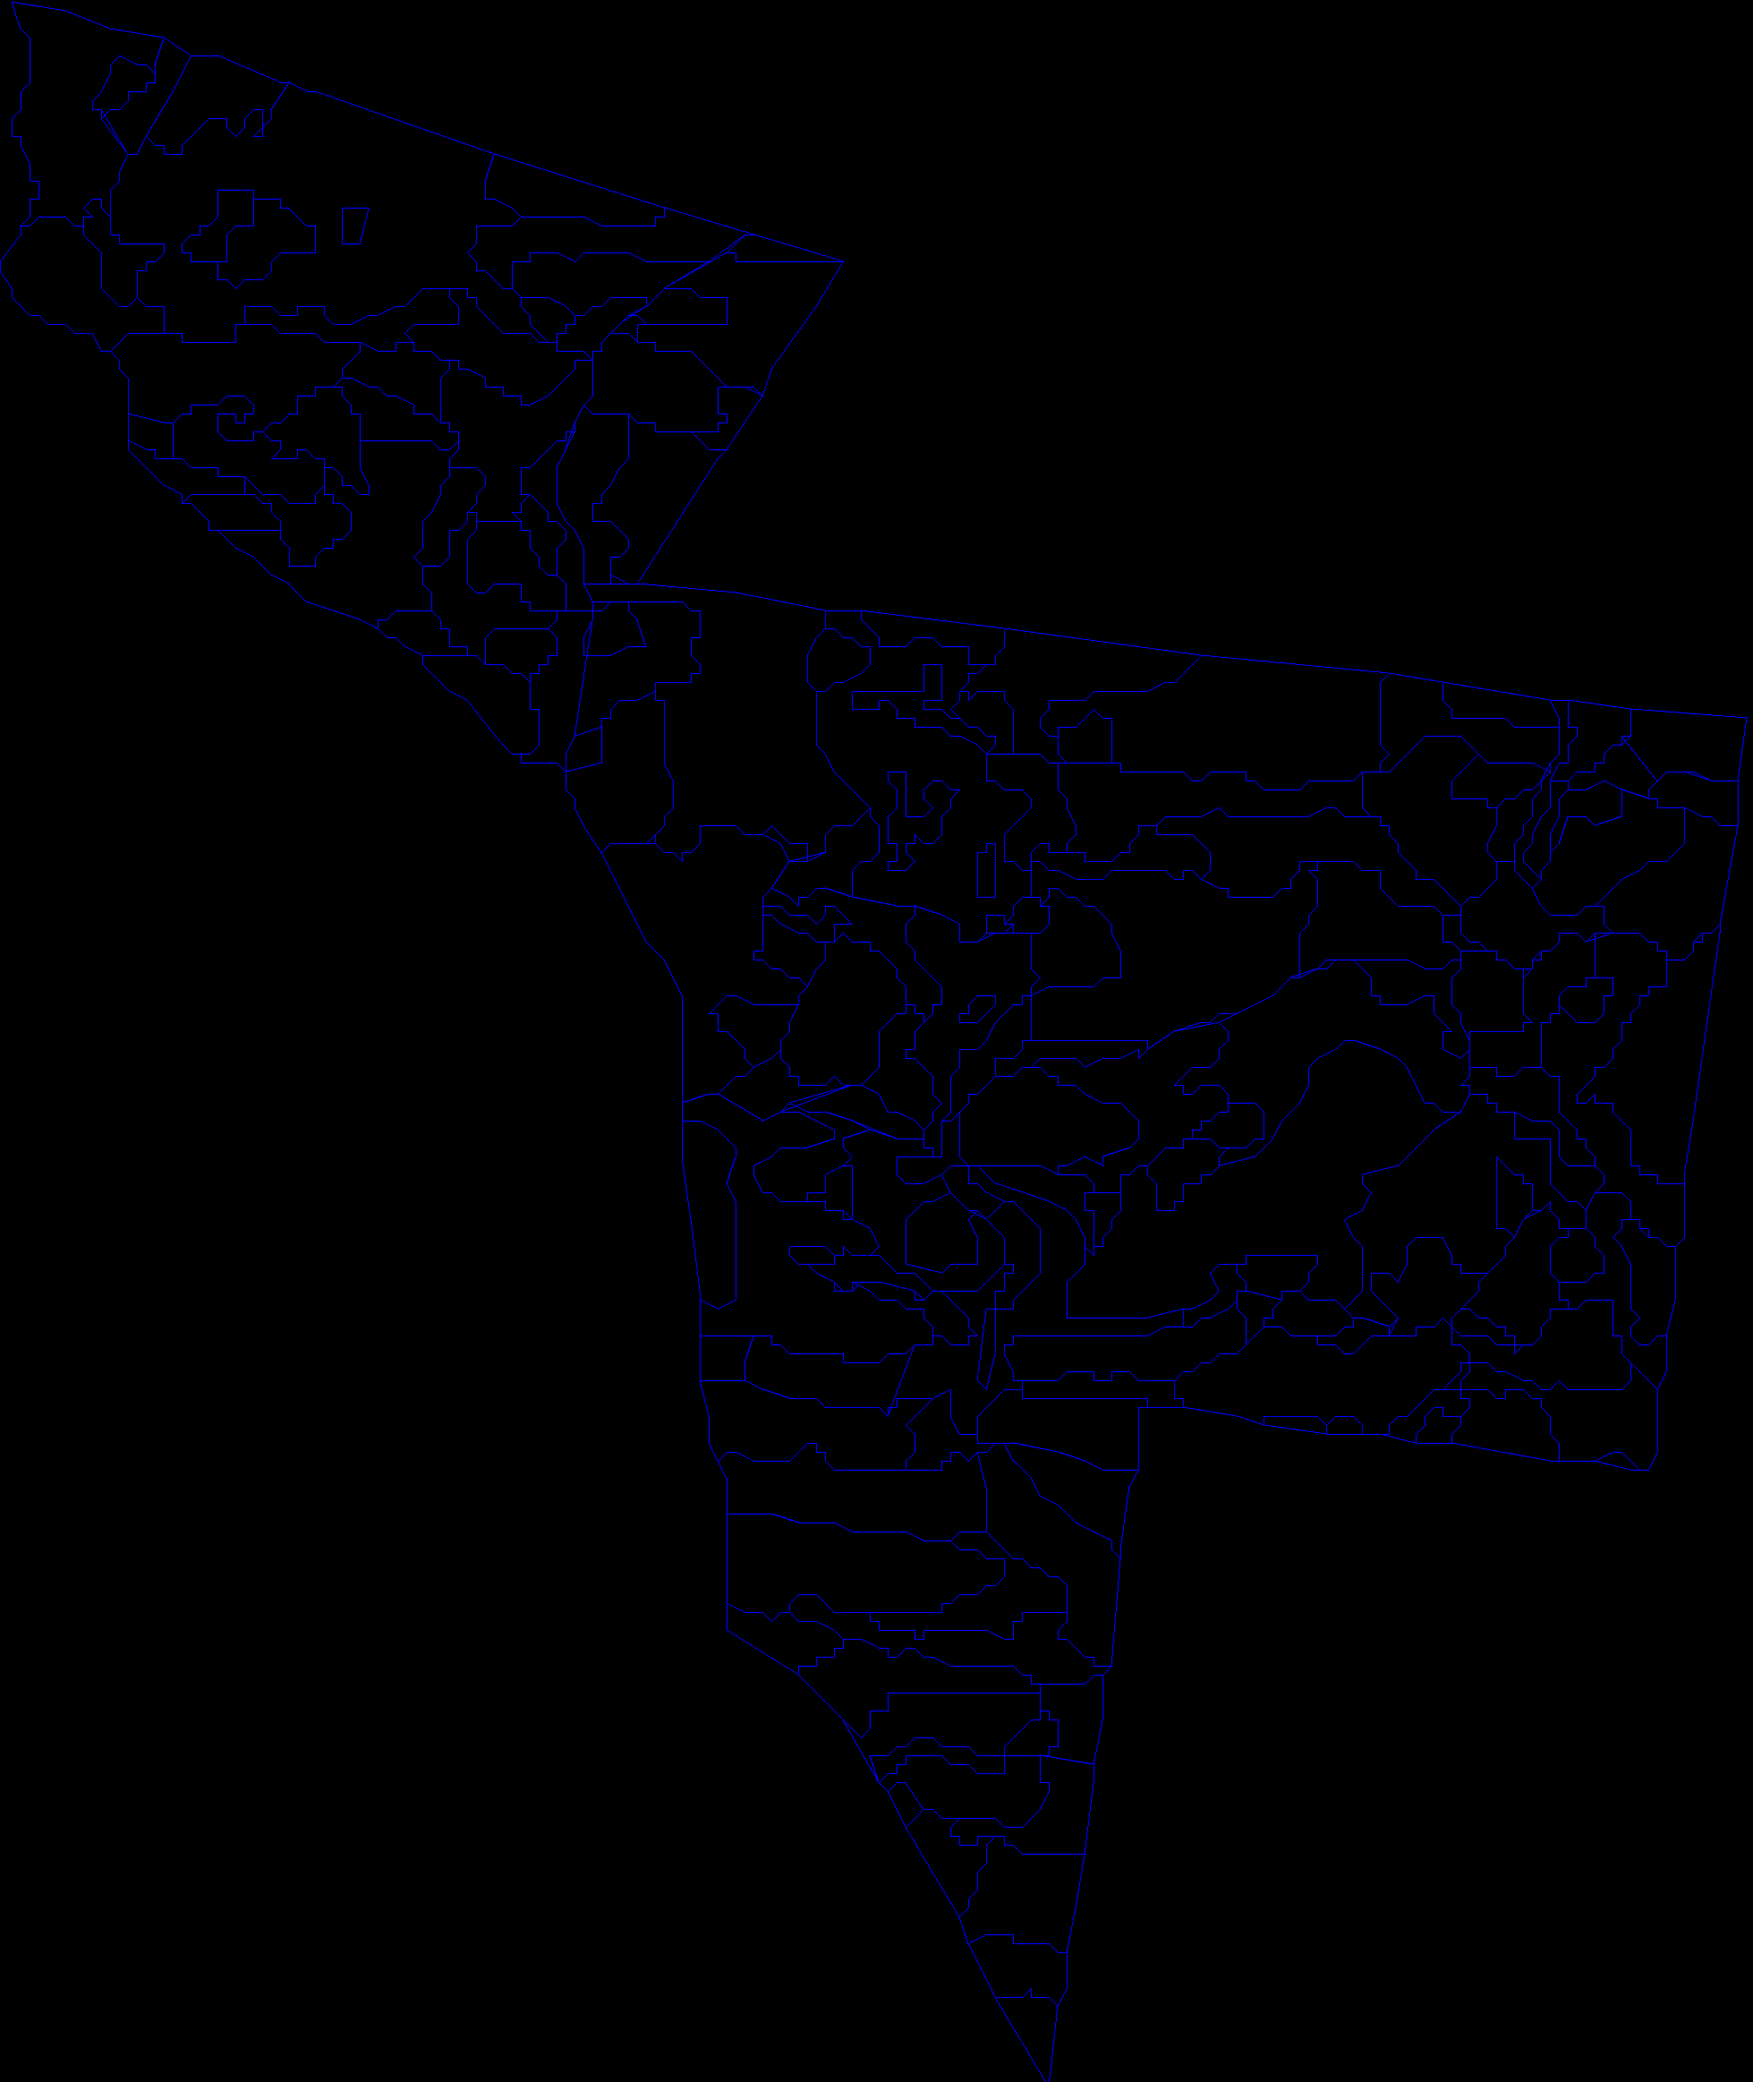
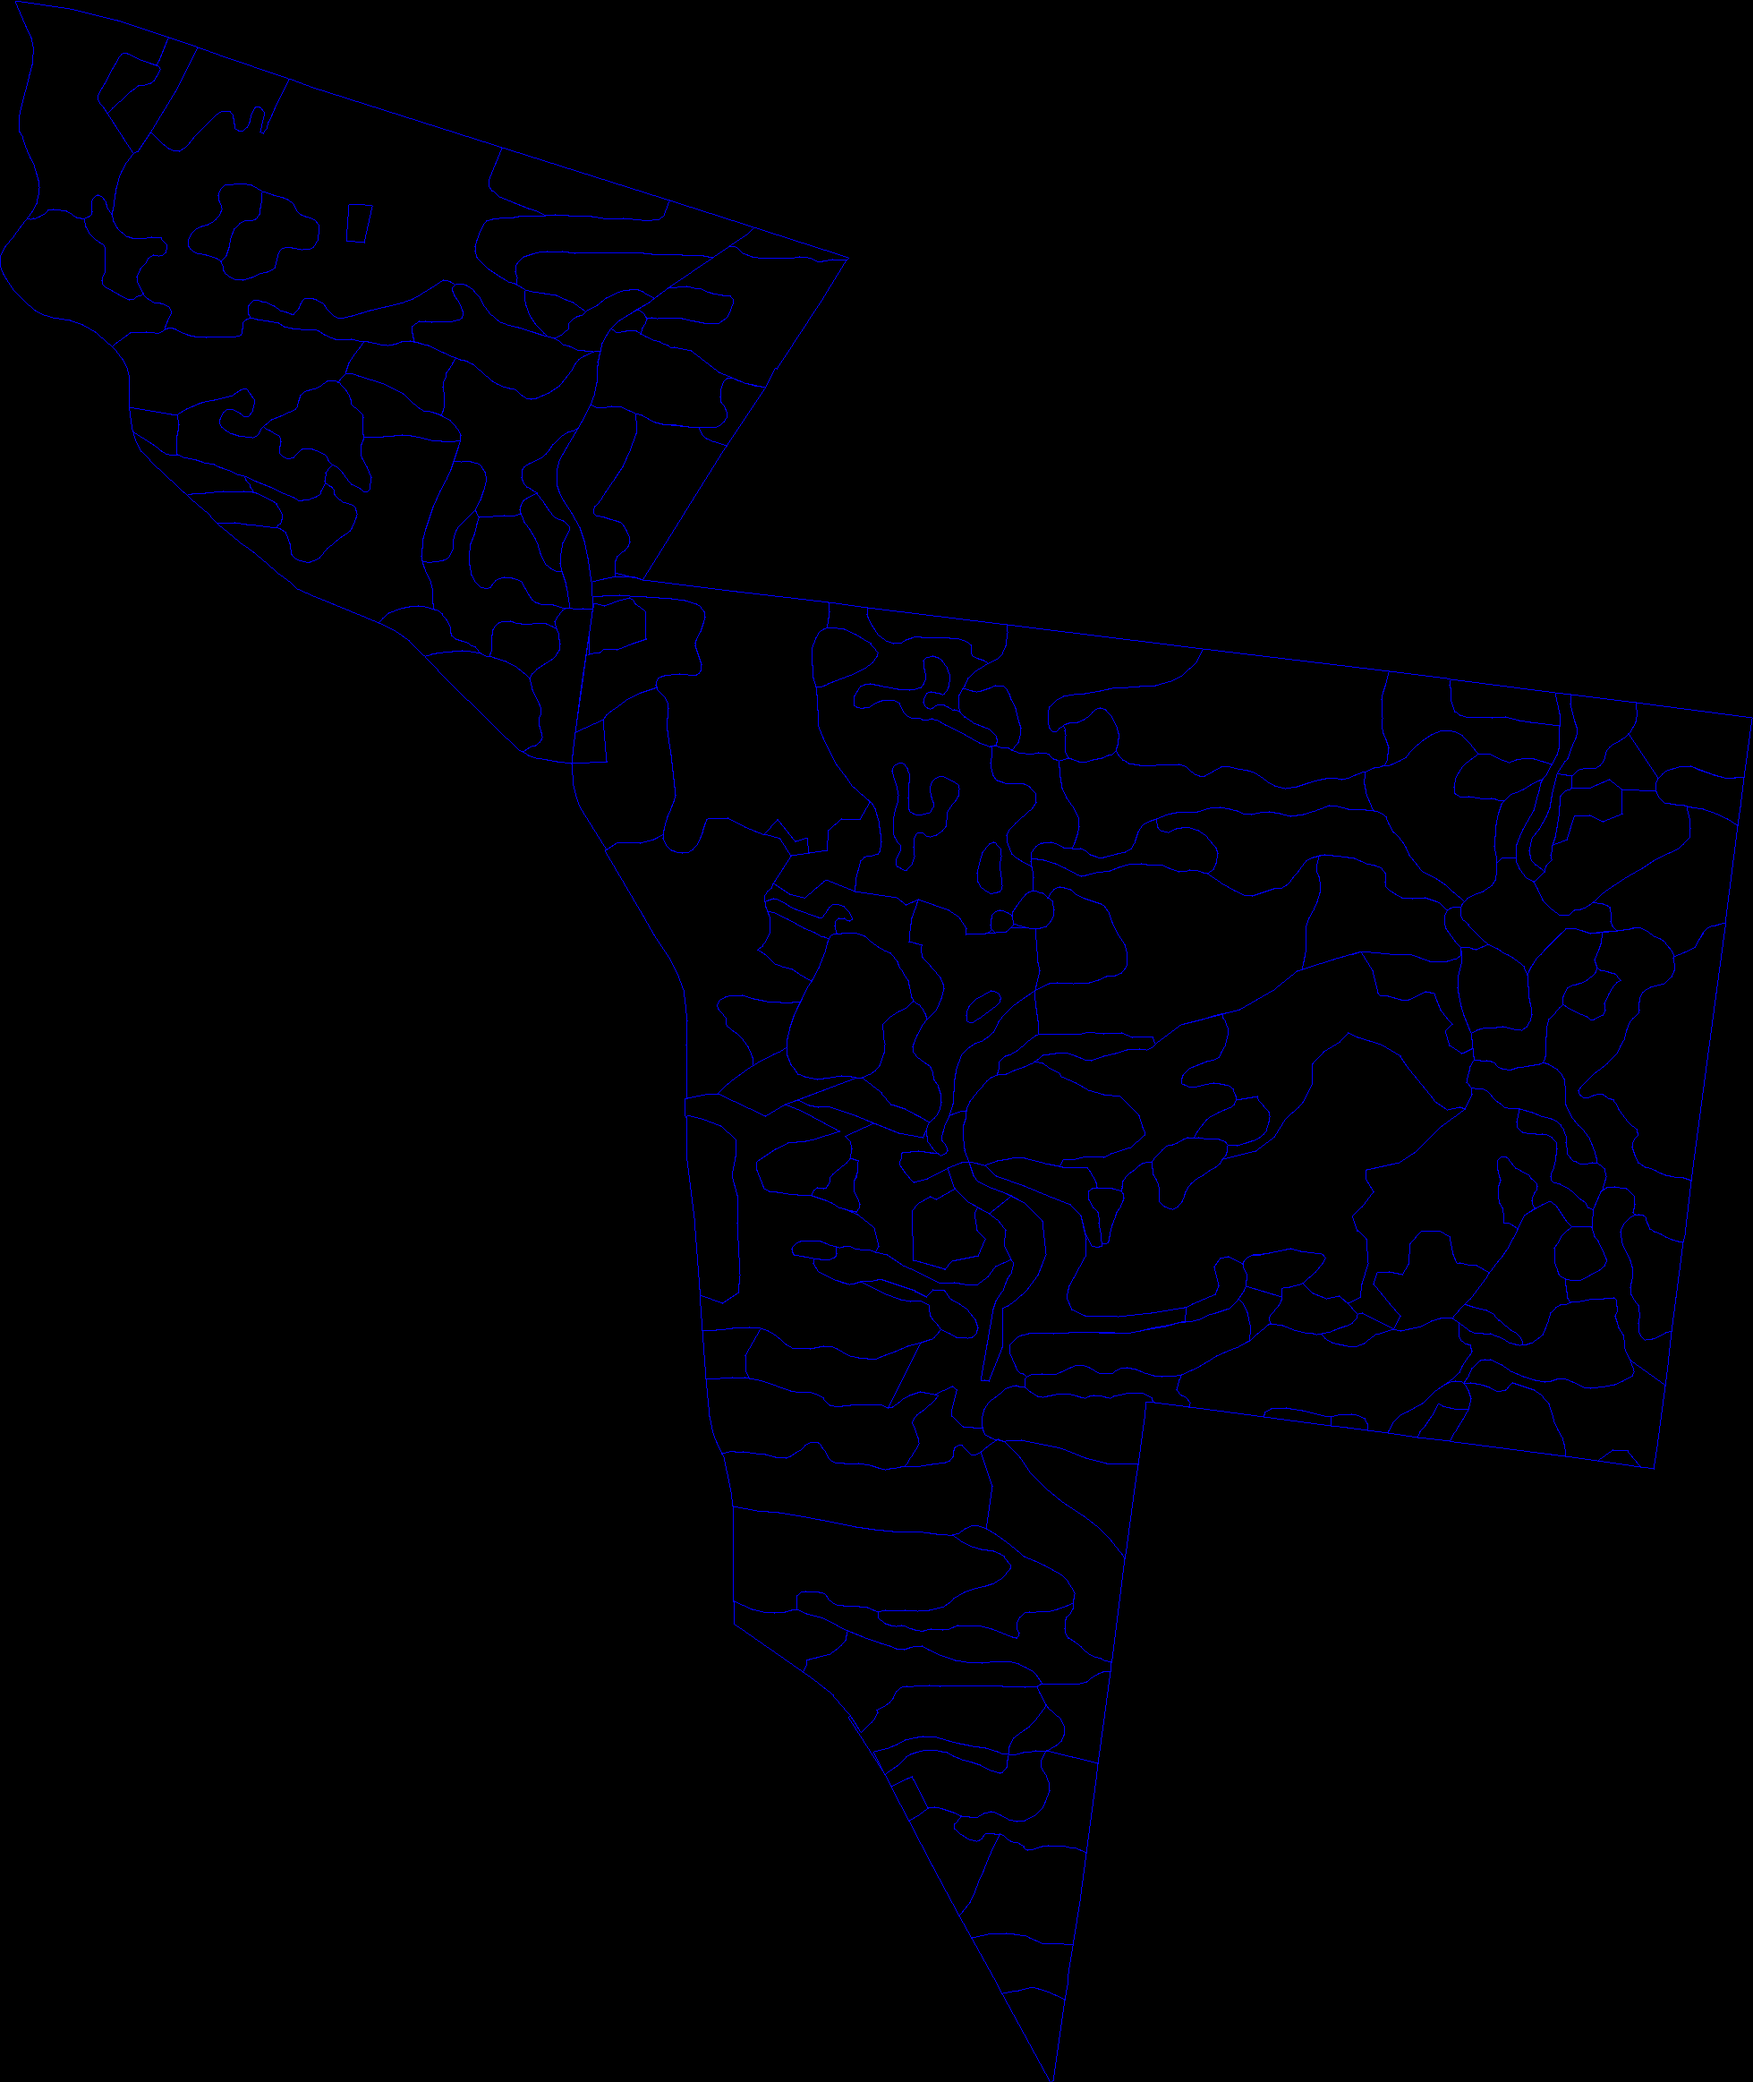
small change to clipping polygon

Changed region(s): [[0.9964, 0.3405, 1.0, 0.3715], [0.8719, 0.3715, 0.903, 0.4024], [0.3114, 0.2786, 0.3425, 0.3095]]

diff --git a/src/forest_property/stand.rs b/src/forest_property/stand.rs
@@ -73,10 +73,10 @@ impl Stand {
         for coordinate in coordinates_str {
             let parts: Vec<&str> = coordinate.split(',').collect();
             if parts.len() == 2 {
-                let x: f64 = parts[0].parse().expect("Invalid x coordinate");
-                let y: f64 = parts[1].parse().expect("Invalid y coordinate");
+                let e: f64 = parts[0].parse().expect("Invalid x coordinate");
+                let n: f64 = parts[1].parse().expect("Invalid y coordinate");
 
-                let (lon, lat) = self.proj.transform(y, x);
+                let (lon, lat) = self.proj.transform(n, e);
                 coords.push(Coord { x: lat, y: lon });
             } else {
                 println!("Invalid coordinate format: {}", coordinate);

diff --git a/src/forest_property/compartment.rs b/src/forest_property/compartment.rs
@@ -38,7 +38,7 @@ impl Compartment {
 
     // Polygon clipping to bounding box
     pub fn clip_polygon_to_bounding_box(&self, bbox: &Polygon) -> Option<Polygon> {
-        let clipped = self.polygon.intersection(bbox, 10000.0);
+        let clipped = self.polygon.intersection(bbox, 100000.0);
 
         if clipped.0.is_empty() {
             println!("Polygon is empty");
